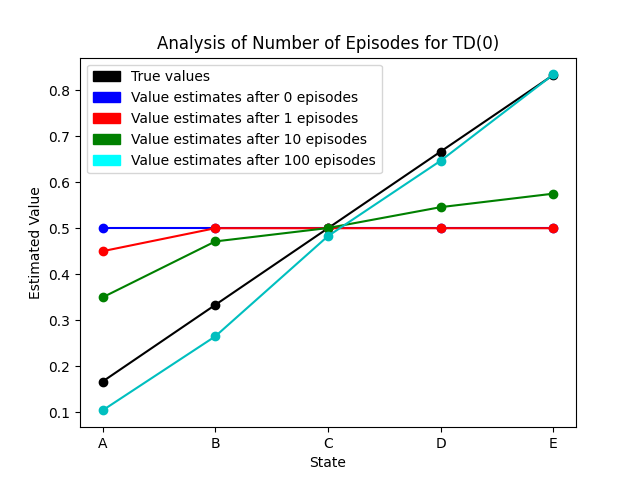
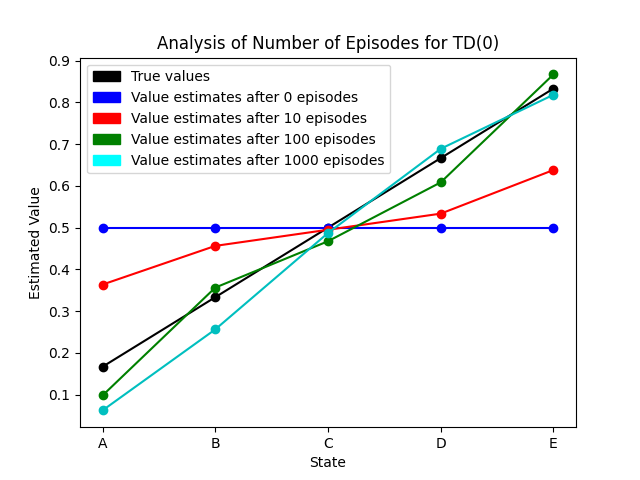
Add files via upload

diff --git a/MDPprojectAnalysis.py b/MDPprojectAnalysis.py
@@ -1,0 +1,64 @@
+import MDP as MDP
+import TDlambda as TD
+import MonteCarlo as MC
+import random as rand
+import matplotlib.pyplot as plt
+import matplotlib.patches as mpatches
+
+def episodeComp(mdp, initial, stepSize, method):
+    if method == MC.MonteCarlo:
+        nameMethod = 'Monte Carlo'
+    else:
+        nameMethod = 'TD(0)'
+    true = [1/6, 2/6, 3/6, 4/6, 5/6]
+    estimates = []
+    numEpisodes = [0,10,100,1000]
+    letters = ['A', 'B', 'C', 'D', 'E']
+    for i in numEpisodes:
+        estimates.append(method(mdp, initial, i, stepSize))
+    black_patch = mpatches.Patch(color='black', label = 'True values')
+    blue_patch = mpatches.Patch(color='blue', label = 'Value estimates after 0 episodes')
+    red_patch = mpatches.Patch(color='red', label = 'Value estimates after 10 episodes')
+    green_patch = mpatches.Patch(color='green', label = 'Value estimates after 100 episodes')
+    cyan_patch = mpatches.Patch(color='cyan', label = 'Value estimates after 1000 episodes')
+    plt.plot(letters, true, 'ko-', 
+             letters, estimates[0], 'bo-',
+             letters, estimates[1], 'ro-',
+             letters, estimates[2], 'go-',
+             letters, estimates[3], 'co-')
+    plt.ylabel('Estimated Value')
+    plt.xlabel('State')
+    plt.legend(handles=[black_patch, blue_patch, red_patch, green_patch, cyan_patch])
+    plt.title('Analysis of Number of Episodes for ' + nameMethod)
+    plt.show()
+    
+def stepSizeComp(mdp, initial, numEpisodes, method):
+    true = [1/6, 2/6, 3/6, 4/6, 5/6]
+    estimates = []
+    stepSizes = [.1,.05, .025, .001]
+    letters = ['A', 'B', 'C', 'D', 'E']
+    for i in stepSizes:
+        estimates.append(method(mdp, initial, numEpisodes, i))
+    black_patch = mpatches.Patch(color='black', label = 'True values')
+    blue_patch = mpatches.Patch(color='blue', label = 'Step size .1')
+    red_patch = mpatches.Patch(color='red', label = 'Step size .05')
+    green_patch = mpatches.Patch(color='green', label = 'Step size .025')
+    cyan_patch = mpatches.Patch(color='cyan', label = 'Step size .001')
+    plt.plot(letters, true, 'ko-', 
+             letters, estimates[0], 'bo-',
+             letters, estimates[1], 'ro-',
+             letters, estimates[2], 'go-',
+             letters, estimates[3], 'co-')
+    plt.ylabel('Estimated Value')
+    plt.xlabel('State')
+    plt.legend(handles=[black_patch, blue_patch, red_patch, green_patch, cyan_patch])
+    plt.title('Analysis of Step Size for TD(0), '+ str(numEpisodes)+' Episodes')
+    plt.show()
+          
+def main():
+    mdp = MDP.ex6dot2
+    initial = MDP.initialize(mdp)
+    stepSizeComp(mdp, initial, 100, TD.TD0)
+    #episodeComp(mdp, initial, .1, TD.TD0)
+    #MC.MonteCarlo(mdp, initial, 500, .5)
+main()

diff --git a/MDP.py b/MDP.py
@@ -36,6 +36,8 @@ class MDP:
         for j in range(len(self.params[1])):
             if rewardProbs[j] >= rewardRandom:
                 self.total[0] += self.params[1][j]
+                if self.total[0] == 2:
+                    print('error!!!', self.state)
                 self.total[1] = self.params[1][j]
                 break
         self.updateTermination()
@@ -46,3 +48,26 @@ class MDP:
         if self.check(self) == True:
             self.terminated = True
             #print('Ended Episode')
+
+def endpointCheck(mdp):
+    return mdp.state == 0 or mdp.state == 6
+        
+
+####INITIALIZE MDP FROM SUTTON AND BARTO
+ex6dot2 = MDP(numStates = 7, 
+            rewards = (0,1), 
+            checkF = endpointCheck, 
+            leftTrans = ((1,0,0,0,0,0,0), (1,0,0,0,0,0,0), (0,1,1,1,1,1,1), (0,0,1,1,1,1,1), (0,0,0,1,1,1,1), (0,0,0,0,1,1,1), (0,0,0,0,0,0,1)),
+            rightTrans = ((1,1,1,1,1,1,1), (0,0,1,1,1,1,1,1), (0,0,0,1,1,1,1), (0,0,0,0,1,1,1), (0,0,0,0,0,1,1), (0,0,0,0,0,0,1), (0,0,0,0,0,0,1)),
+            leftReward = ((1,1),(1,1),(1,1),(1,1),(1,1),(1,1),(1,1)), 
+            rightReward = ((1,1), (1,1), (1,1), (1,1), (1,1), (0,1),(1,1)),
+            gamma = 1
+            )
+
+def initialize(mdp):
+    vals = []
+    vals.append(0)
+    for s in range(1,mdp.params[0]-1):
+        vals.append(0.5)
+    vals.append(0)
+    return vals

diff --git a/MonteCarlo.py b/MonteCarlo.py
@@ -1,0 +1,26 @@
+import MDP as MDP
+import random as rand
+
+def MonteCarlo(mdp, vals, numEpisodes, stepSize):
+    for i in range(len(vals)):
+        vals[i] = [0]
+    for episode in range(numEpisodes):
+        vals2update = []
+        mdp.state = rand.randint(1,mdp.params[0]-2)
+        mdp.total = [0,0]
+        mdp.terminated = False
+        while mdp.terminated == False:
+            state = mdp.state
+            vals2update.append(state)
+            direction = rand.randint(0,1)
+            mdp.move(direction)
+        for j in range(len(vals2update)):
+            s = vals2update[j]
+            vals[s].append(mdp.total[0])
+    for i in range(len(vals)):
+        numVals = len(vals[i])
+        if numVals != 0:
+            vals[i] = sum(vals[i])/numVals
+    vals = vals[1:-1]
+    print(vals)
+    return vals

diff --git a/TDlambda.py b/TDlambda.py
@@ -1,0 +1,18 @@
+from MDP import MDP
+import random as rand
+        
+def TD0(mdp, vals, numEpisodes, stepSize):
+    for episode in range(numEpisodes):
+        mdp.total = [0,0]
+        mdp.state = rand.randint(1,mdp.params[0]-1)
+        mdp.terminated = False
+        while mdp.terminated == False:
+            state = mdp.state
+            direction = rand.randint(0,1)
+            mdp.move(direction)
+            stepChange = stepSize*(mdp.total[1]+mdp.params[2]*vals[mdp.state]-vals[state])
+            vals[state] += stepChange
+    mdp.total = [0,0]
+    vals = vals[1:-1]
+    return vals
+    
